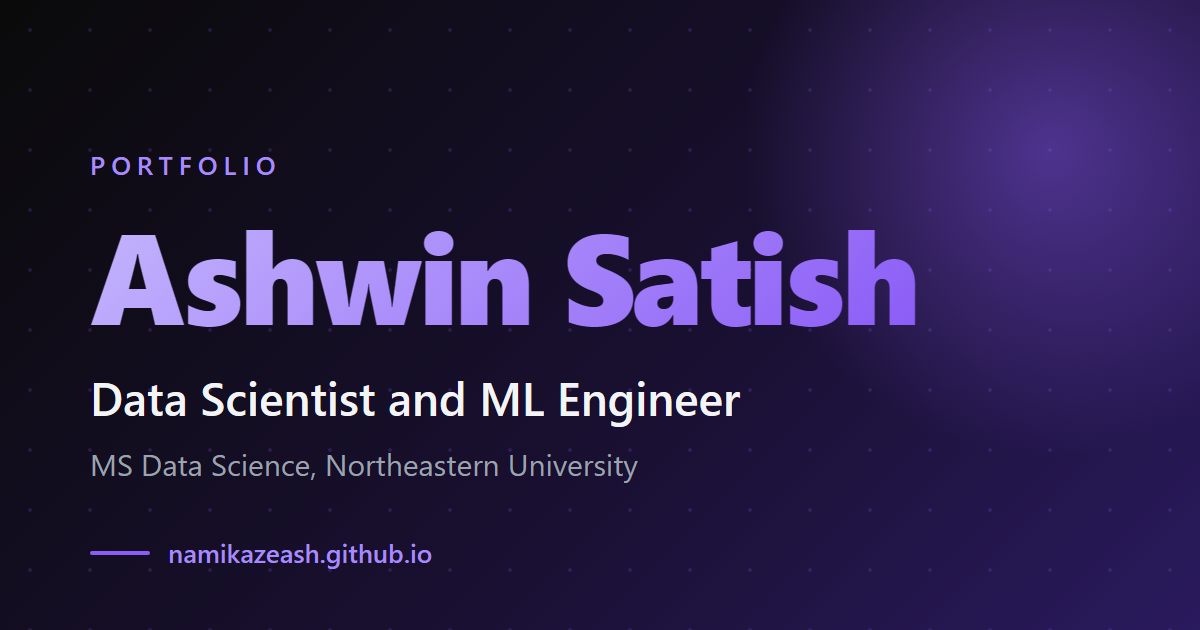
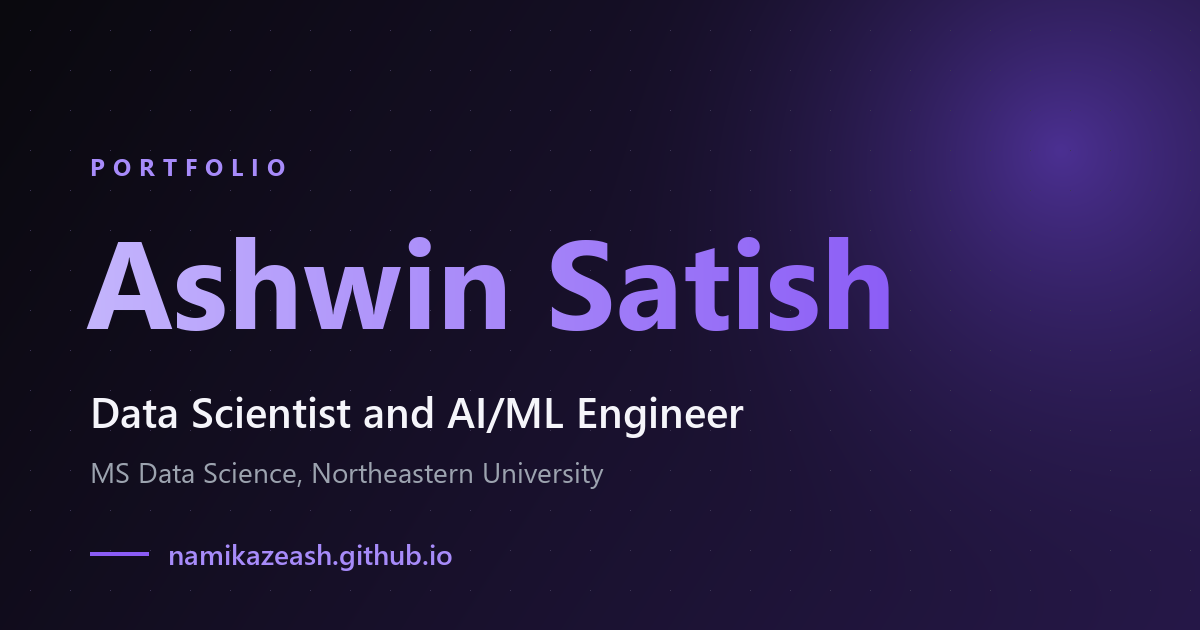
.

diff --git a/index.html b/index.html
@@ -2,16 +2,16 @@
 <html lang="en">
 <head>
   <meta charset="UTF-8">
-  <title>Ashwin Satish | Data Scientist and ML Engineer</title>
+  <title>Ashwin Satish | Data Scientist and AI/ML Engineer</title>
   <meta name="description" content="Ashwin Satish, MS Data Science at Northeastern University. Machine learning, NLP and LLM systems. Based in the USA.">
   <meta property="og:type" content="website">
-  <meta property="og:title" content="Ashwin Satish | Data Scientist and ML Engineer">
+  <meta property="og:title" content="Ashwin Satish | Data Scientist and AI/ML Engineer">
   <meta property="og:description" content="MS Data Science at Northeastern University. Machine learning, NLP and LLM systems. Based in the USA.">
   <meta property="og:url" content="https://namikazeash.github.io/">
-  <meta property="og:image" content="https://namikazeash.github.io/images/og-preview.png">
+  <meta property="og:image" content="https://namikazeash.github.io/images/og-preview.png?v=2">
   <meta property="og:image:width" content="1200">
   <meta property="og:image:height" content="630">
-  <meta property="og:image:alt" content="Ashwin Satish, Data Scientist and ML Engineer portfolio">
+  <meta property="og:image:alt" content="Ashwin Satish, Data Scientist and AI/ML Engineer portfolio">
   <meta name="twitter:card" content="summary_large_image">
   <meta name="viewport" content="width=device-width, initial-scale=1">
   <link href="https://fonts.googleapis.com/css2?family=Inter:wght@300;400;600;700&display=swap" rel="stylesheet">
@@ -936,7 +936,7 @@
   <div class="hero-content">
     <img class="hero-photo" src="images/pfp.png" alt="Ashwin Satish" width="293" height="293">
     <h1>Ashwin Satish</h1>
-    <p class="tagline">Data Scientist and ML Engineer · USA<br>MS Data Science, Northeastern University · Currently building <a href="https://github.com/NamikazeAsh/BoxBox" target="_blank" class="tagline-link boxbox">BoxBox</a></p>
+    <p class="tagline">Data Scientist and AI/ML Engineer · USA<br>MS Data Science, Northeastern University · Currently building <a href="https://github.com/NamikazeAsh/BoxBox" target="_blank" class="tagline-link boxbox">BoxBox</a></p>
     <div class="cta-buttons">
       <a class="btn" href="Resume - DS.pdf" download>Resume</a>
       <a class="btn btn-outline" href="https://github.com/NamikazeAsh" target="_blank">View GitHub</a>
